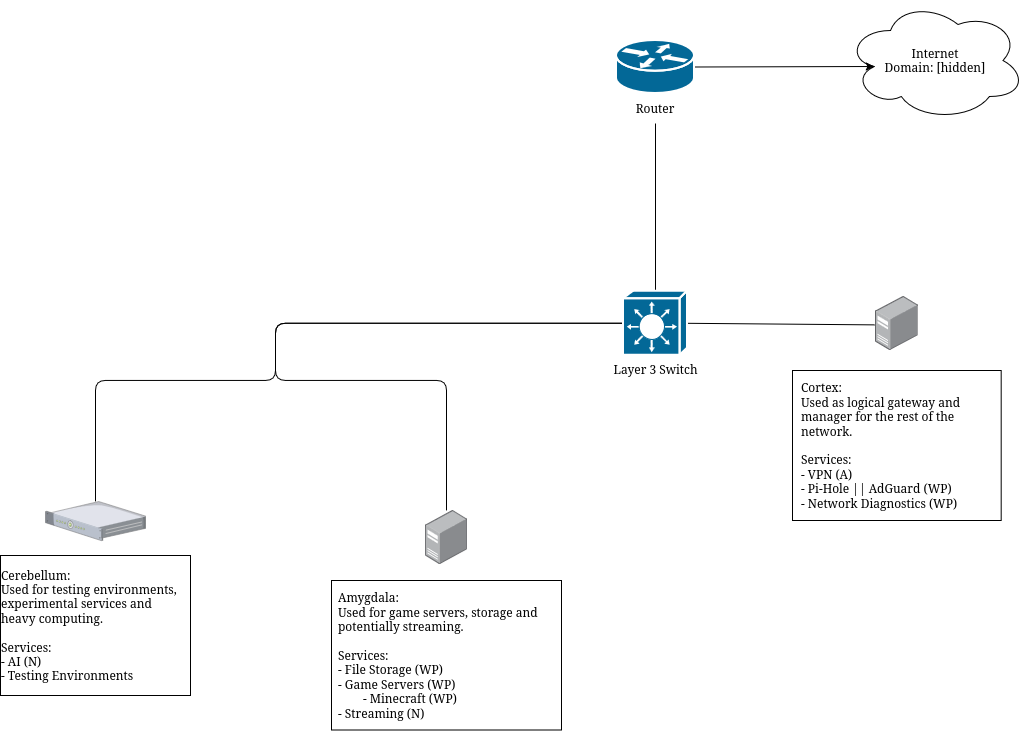
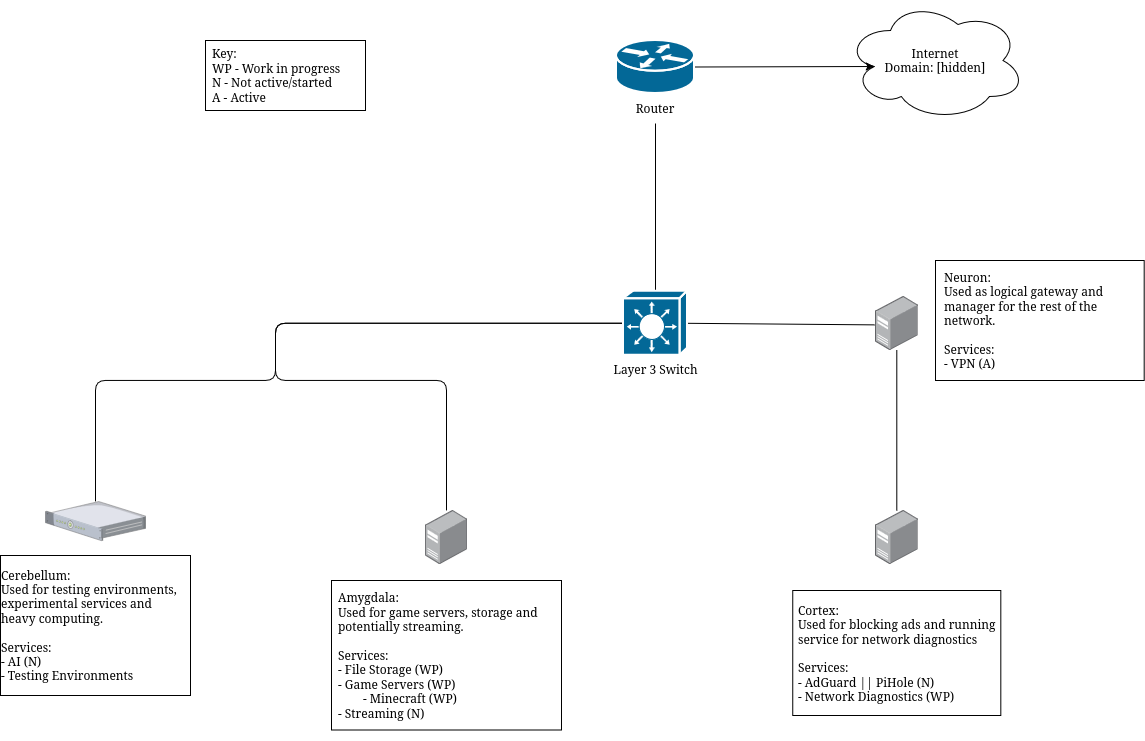
docs: Beginning device docs and updated network diagram

diff --git a/docs/devices/neuron/neuron-main.md b/docs/devices/neuron/neuron-main.md
@@ -1,0 +1,133 @@
+
+# Neuron 
+
+## Device Overview
+
+`Neuron` is the main entry point into the homelab network. All users that want
+to connect to a device/service within the lab must first connect to the VPN server 
+run on `neuron`.
+
+`Neuron` runs on a small linux OS to reduce operational costs and the attack surface. 
+It also has extensive custom networking rules for correctly routing user groups 
+to accessible services, as well as supporting detailed logging for all connections.
+
+`Neuron` also uses a local static IP to ensure routing is predictable.
+
+---
+
+## Services
+
+### Nftables
+
+Originally, I was using UFW for firewall rules. However, I switched over to nftables
+for more granular control over connections and greater control over custom logging.
+
+Below is an older version of the configuration file used before custom service forwarding
+implementation. The newest version is still a work in progress but will be updated once
+complete.
+
+Documented old config:
+
+```config
+#!/usr/sbin/nft -f
+
+flush ruleset
+
+# Defined variables
+define pub_iface = "<network_interface_name>"
+define wg_iface = "<wireguard_interface_name>"
+define wg_port = <wireguard_listening_port>
+define ssh_port = <ssh_listening_port>
+
+# firewall rules for both ipv4 and ipv6 (indicated by `inet`)
+table inet filter {
+
+        # Rules for incomming connections
+        chain input {
+                
+                # Set the default action to drop packets unless a later rule
+                # specifically accepts them.
+                type filter hook input priority filter; policy drop;
+
+                # Allow loopback traffic
+                iif lo accept
+
+                # Allow established and related traffic
+                ct state vmap { invalid:drop, established:accept, related:accept }
+
+                # Drop new connections over rate limit (helps prevent brute force)
+                ct state new limit rate over 1/second burst 10 packets drop
+
+                # Accept SSH if coming from the public network interface
+                iifname $pub_iface tcp dport $ssh_port accept
+
+                # Accept Wireguard connections from the public network interface
+                iifname $pub_iface udp dport $wg_port accept
+        }
+        # Location for specific wireguard forwarding rules. Will be updated
+        # in the new version.
+        #chain wg-forward {
+                # Filter appropriate traffic
+        #}
+
+        # Rules for forwarding packets to other destinations
+        chain forward {
+
+                # Set the default action to drop packets attempting to be forwarded
+                type filter hook forward priority filter; policy drop;
+
+                # Accept established and related traffic
+                #ct state vmap { invalid:drop, established:accept, related:accept }
+
+                # Forward wg vpn packets to accessible devices
+                # iifname $wg_iface oifname $pub_iface goto wg-forward
+        }
+
+        # Rules for outbound traffic from `neuron`. This might be updated in
+        # Future configs for more control over what can be sent.
+        chain output {
+
+                # Set the default action to accept packets leaving the server
+                type filter hook output priority filter; policy accept;
+        }
+}
+
+# Rule for making wireguard connections look like the public interface when
+# connecting to outside services.
+table inet nat {
+        chain postrouting {
+                type nat hook postrouting priority 100; policy accept;
+                iifname $wg_iface oifname $pub_iface masquerade
+        }
+}
+```
+
+---
+
+### SSH (A)
+
+`Neuron` has an active SSH server that uses key-based authentication. It is an admin
+connection for remote servicing of the device, no normal users will have access.
+Details:
+- Key authentication
+- listens on a non-standard port
+- Blacklisting connections with too many failed attempts
+- No X11 forwarding, limit attack surface for graphical applications
+- Warning page for connecting users
+
+---
+
+### Wireguard (W/P)
+
+`Neuron` runs a Wireguard VPN server that acts as the entry point for the network.
+Configs for new users are automatically generated with a script that can create
+either a config file for the user or a qr code to scan.
+
+Due to the nature of Wireguard, users can choose the traffic that is routed through
+the wireguard tunnel, using 0.0.0.0/0 for all traffic and defining subnets in the
+`AllowedIPS` section for specific traffic.
+
+Wireguard connections are further controlled by the nftables service. Rules have 
+been created to control the services that users can try to access, limiting the
+scope of connections to only trusted individuals.
+

diff --git a/diagrams/network-diagram-notes.md b/diagrams/network-diagram-notes.md
@@ -1,0 +1,6 @@
+
+# Network Diagram Notes
+
+## Conversion from transparent to white background
+
+command: `magick network-diagram.png -background white -flatten network-diagram.png`
